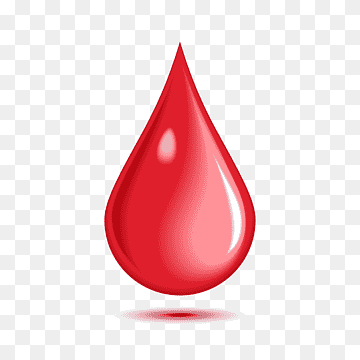
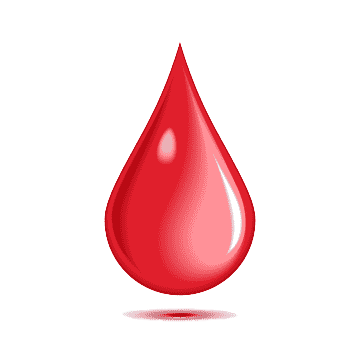
Improved FPS counter

Changed region(s): [[0.3972, 0.8556, 0.6111, 0.9167], [0.4889, 0.1222, 0.5194, 0.1528]]

diff --git a/engine/fpscounter.js b/engine/fpscounter.js
@@ -1,24 +1,27 @@
 class FPSCounter {
 
     constructor(font = "30px Arial") {
-        this.last = new Date();
-        this.current = null;
         this.setFont(font);
+        this.lastFrame = new Date();
         this.lastRefreshed = 0;
+        this.current = null;
         this.refreshTime = 500;
         this.fps = 0;
+        this.frameTimes = [];
     }
 
-    calculateFPS() {
+    update() {
         this.current = new Date();
-        let ellapsed = this.current - this.last;
+        let ellapsed = this.current - this.lastFrame;
         this.lastRefreshed += ellapsed;
+        this.frameTimes.push(ellapsed);
         if(this.lastRefreshed >= this.refreshTime) {
-            this.fps = 1000 / ellapsed;
+            let avgFrameTime = this.frameTimes.reduce((partialSum, ft) => partialSum + ft, 0) / this.frameTimes.length;
+            this.fps = 1000 / avgFrameTime;
             this.lastRefreshed = 0;
+            this.frameTimes = [];
         }
-        this.last = this.current;
-        return Math.round(this.fps);
+        this.lastFrame = this.current;
     }
 
     setFont(font = "30px Arial") {
@@ -28,8 +31,7 @@ class FPSCounter {
 
     draw() {
         ctx.fillStyle = "black";
-        ctx.fillText("FPS: " + this.calculateFPS(), 
-            ctx.canvas.width *  0.05, ctx.canvas.height * 0.1);
+        ctx.fillText("FPS: " + Math.round(this.fps), ctx.canvas.width *  0.05, ctx.canvas.height * 0.1);
     }
 
 }

diff --git a/engine/ammo/area.js b/engine/ammo/area.js
@@ -3,7 +3,7 @@ class Area extends Ammo {
     constructor(center, width, height, damage, duration, speed = 0) {
         super(center.position.x, center.position.y, width, height, damage, speed);
         this.center = center;
-        this.color = new Vector(0, 255, 255);
+        this.color = `rgba(0, 0, 0, 0.6)`;
         this.duration = duration;
         this.current = null;
         this.created = new Date();
@@ -29,7 +29,9 @@ class Area extends Ammo {
     }
 
     draw(camera) {
-        ctx.fillStyle = `rgba(${this.color.x}, ${this.color.y}, ${this.color.z}, 0.6)`;
+        this._draw(camera);
+
+        ctx.fillStyle = this.color;
         ctx.beginPath();
         ctx.ellipse(this.position.x - camera.offset.x, this.position.y - camera.offset.y,
             this.width, this.height, 0, 0, 2 * Math.PI);
@@ -37,8 +39,12 @@ class Area extends Ammo {
         ctx.fill();
     }
 
-    setColor(r, g ,b) {
-        this.color = new Vector(r, g, b);
+    _draw(camera) {
+
+    }
+
+    setColor(color) {
+        this.color = color;
     }
 
     collides(model) {

diff --git a/src/ammo/scrotum.js b/src/ammo/scrotum.js
@@ -1,7 +1,7 @@
-class Dick extends Ammo {
+class Scrotum extends Ammo {
 
     constructor(x, y) {
-        super(x, y, 20, 10, 10, 15);
+        super(x, y, 30, 30, 10, 15);
     }
 
     update() {
@@ -12,7 +12,7 @@ class Dick extends Ammo {
     }
 
     draw(camera) {
-        ctx.drawImage(sprites.dick, this.position.x - this.width / 2 - camera.offset.x,
+        ctx.drawImage(sprites.scrotum, this.position.x - this.width / 2 - camera.offset.x,
             this.position.y - this.height / 2 - camera.offset.y, this.width, this.height);
     }
 

diff --git a/src/ammo/badsmell.js b/src/ammo/badsmell.js
@@ -4,4 +4,15 @@ class BadSmell extends Area {
         super(center, 100, 100, 4, 6000);
     }
 
+   _draw(camera) {
+       let gradient = ctx.createRadialGradient(this.position.x - camera.offset.x,
+           this.position.y - camera.offset.y, 0, this.position.x - camera.offset.x,
+           this.position.y - camera.offset.y, (this.width + this.height) / 2);
+
+       gradient.addColorStop(0,'rgba(0, 102, 0, 0.6)');
+       gradient.addColorStop(1, 'rgba(51, 204, 51, 0.6)');
+
+       this.color = gradient;
+   }
+
 }

diff --git a/index.html b/index.html
@@ -43,10 +43,10 @@
     <script src="src/deepwater.js"></script>
     <script src="src/sand.js"></script>
 
-    <script src="src/ammo/dick.js"></script>
+    <script src="src/ammo/scrotum.js"></script>
     <script src="src/ammo/badsmell.js"></script>
 
-    <script src="src/weapon/dickgun.js"></script>
+    <script src="src/weapon/scrotumlauncher.js"></script>
     <script src="src/weapon/otaku.js"></script>
 
     <script src="src/drop/blood.js"></script>

diff --git a/src/player.js b/src/player.js
@@ -12,7 +12,7 @@ class Player extends Character {
         this.barCluster.addBar("HP", "hp", "maxHp", 80, 12,
             "red", "black");
 
-        this.weapons.push(new Otaku(), new DickGun());
+        this.weapons.push(new Otaku(), new ScrotumLauncher());
     }
 
     takeDamage(damage) {

diff --git a/src/drop/blood.js b/src/drop/blood.js
@@ -1,7 +1,7 @@
 class Blood extends Drop {
 
     constructor(x, y, target) {
-        super(x, y, 10, 12, 6, target, 400, "exp", 20);
+        super(x, y, 20, 20, 6, target, 400, "exp", 20);
     }
 
     draw(camera) {

diff --git a/src/weapon/scrotumlauncher.js b/src/weapon/scrotumlauncher.js
@@ -1,7 +1,7 @@
-class DickGun extends Weapon {
+class ScrotumLauncher extends Weapon {
 
     constructor() {
-        super(5, 1000, Dick);
+        super(5, 1000, Scrotum);
     }
 
     attack(owner) {

diff --git a/res/sprites.js b/res/sprites.js
@@ -5,7 +5,7 @@ const filenames = [
     "sand.jpg",
     "deepwater.jpg",
     "player.png",
-    "dick.png",
+    "scrotum.png",
     "blood.png"
 ]
 

diff --git a/main.js b/main.js
@@ -31,6 +31,7 @@ function processInput() {
 /* update */
 function update() {
     gameLayer.update();
+    fpscounter.update();
 }
 
 
